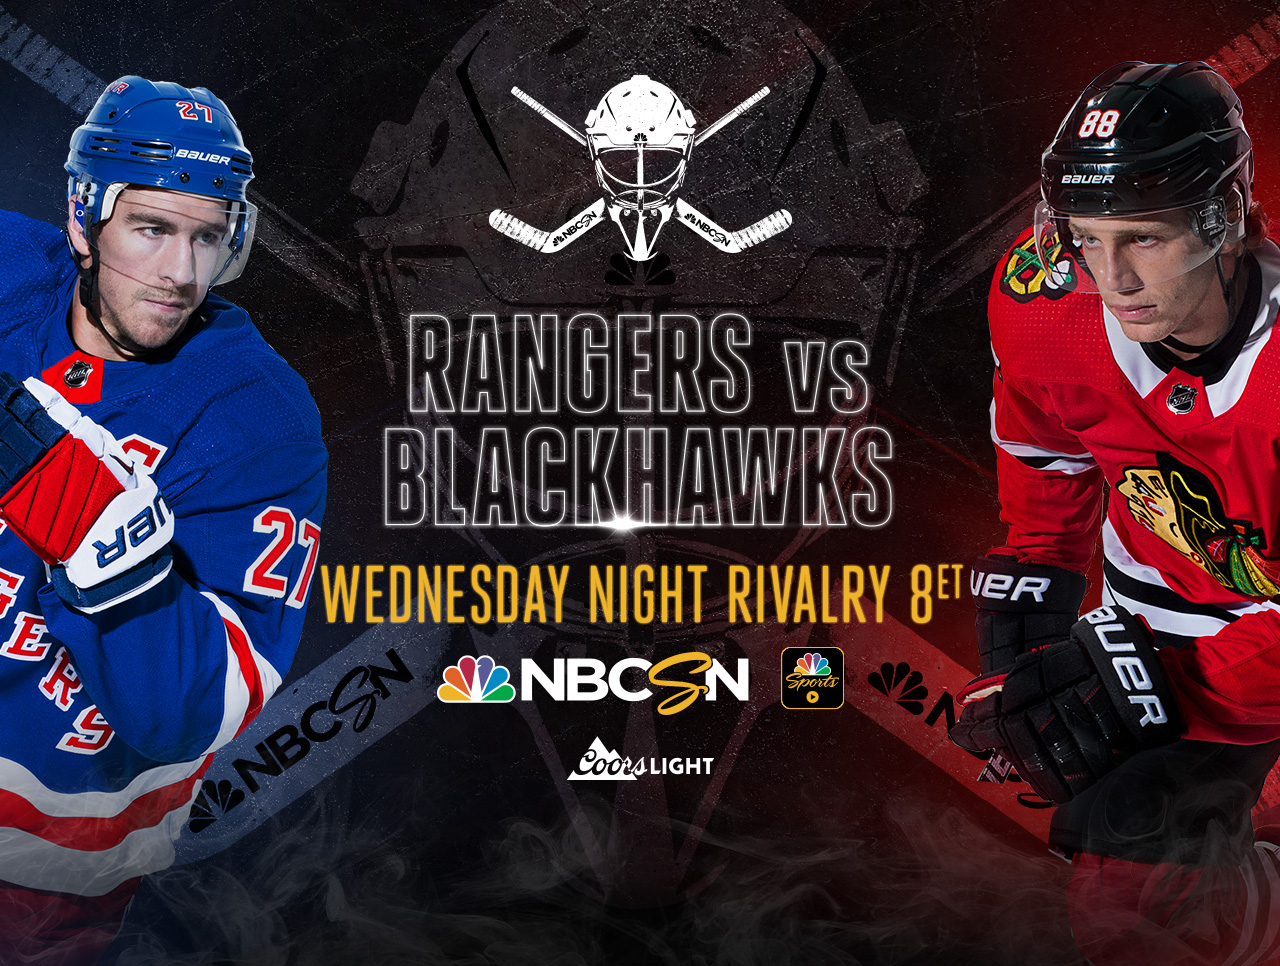
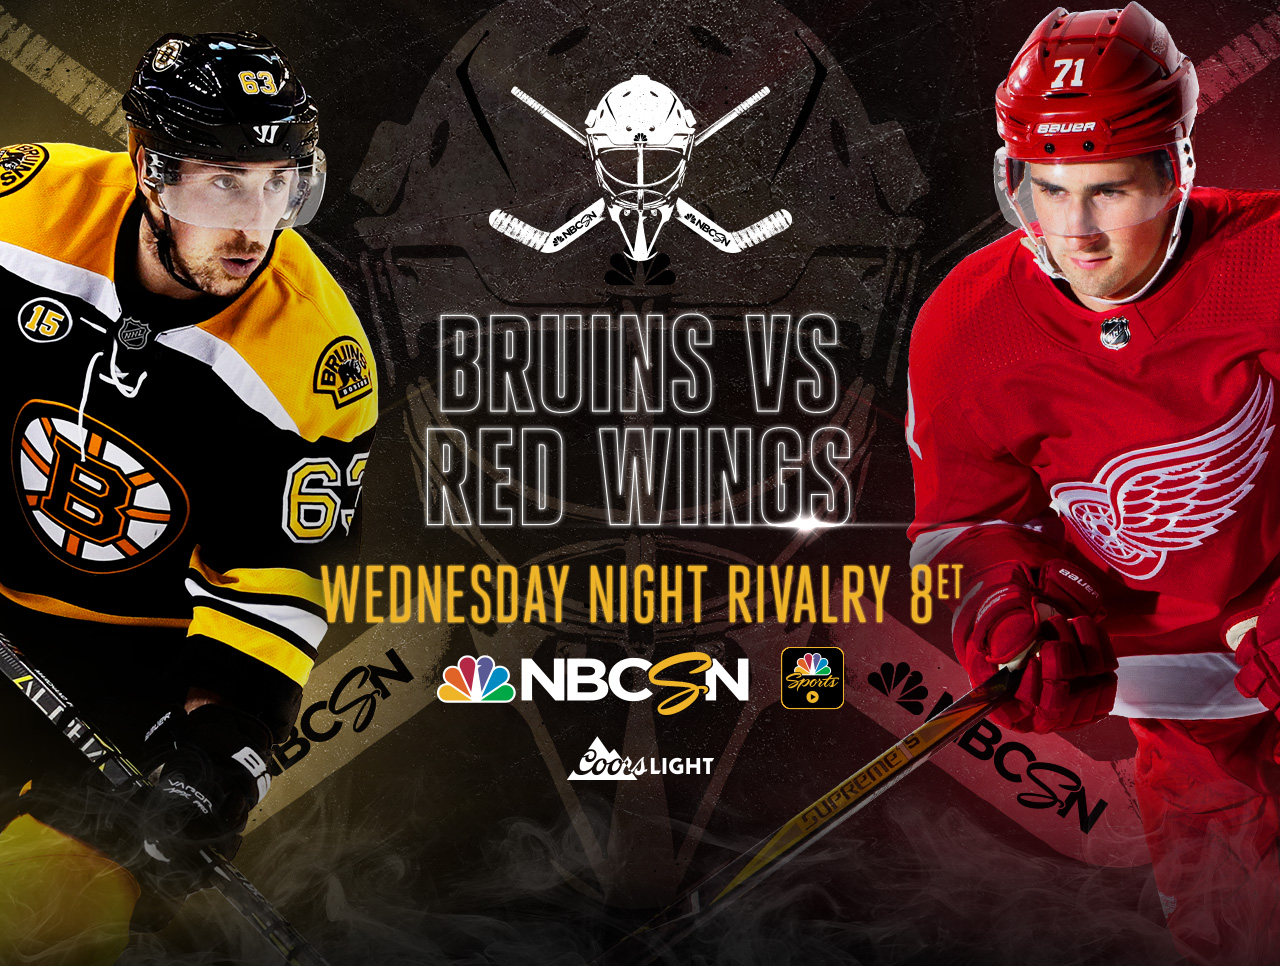
121317media buy

diff --git a/121317-MEDIA-BUY/index.html b/121317-MEDIA-BUY/index.html
@@ -15,10 +15,11 @@
 
 			<div id="contentright">
 
-				<h6>NHL Wednesday Night Rivalry | MEDIA BUY | Rangers vs. BlackHawks 11.15.17</h6> 
+				<h6>NHL Wednesday Night Rivalry | MEDIA BUY | BRUINS vs RED WINGS 12.13.17</h6> 
 
 				<!-- <h2><a href="html_css/download.zip">download files here</a></h2> -->
 
+<!--
 				 <h1>Animated Banners</h1>
 
 
@@ -50,14 +51,11 @@
 					<p><a href="html_css/300x600/300x600.html">CLICK HERE TO VIEW ANIMATION</a></p>
 					<p><object width="300" height="600" data="html_css/300x600.jpg"></object> <br /><br />
 					</p>
-
-<!--
-                    <h4>160x600</h4>
-					<p><a href="html_css/160x600/160x600.html">CLICK HERE TO VIEW ANIMATION</a></p>
-					<p><object width="160" height="600" data="html_css/160x600.jpg"></object> <br /><br />
-					</p>
 -->
 
+
+
+<!--
                     <h1>Video Banners</h1>
                     
                     <h4>970x250</h4>
@@ -96,9 +94,11 @@
                     <h4>1060x590 Athena</h4>
 					<p><object width="1060" height="590" data="html_css/athena_1060x590.jpg"></object> <br /> <br />
 					</p>
+-->
                     
                     <h3>theScore</h3>
                 
+<!--
                     <h4>1242x2208 Mobile Launch Page</h4>
 					<p><object width="1242" height="2208" data="html_css/mobile_launch_page_1242x2208.jpg"></object> <br /> <br />
 					</p>
@@ -106,6 +106,7 @@
                     <h4>760x264 Masthead Unit</h4>
 					<p><object width="760" height="264" data="html_css/masthead_760x264.jpg"></object> <br /> <br />
 					</p>
+-->
                 
                     <h4>1280x966 Discovery Unit</h4>
 					<p><object width="1280" height="966" data="html_css/discovery_1280x966.jpg"></object> <br /> <br />
@@ -115,146 +116,6 @@
 
     
 					
-
-
-
-
-<!--
-				<h1>Static Banners</h1>
-
-					<h4>970x66</h4>
-					<p><object width="970" height="66" data="html_css/970x66.jpg"></object> <br /> <br />
-					</p>
-                    
-                    <h4>728x90</h4>
-					<p><object width="728" height="90" data="html_css/728x90.jpg"></object> <br /> <br />
-					</p>
-
-					<h4>320x50</h4>
-					<p><object width="320" height="50" data="html_css/320x50.jpg"></object> <br /><br />
-					</p>
-
-					<h4>300x50</h4>
-					<p><object width="300" height="50" data="html_css/300x50.jpg"></object> <br /><br />
-					</p>
-
-					<h4>190x80</h4>
-					<p><object width="190" height="80" data="html_css/190x80.jpg"></object> <br /><br />
-					</p>
-
-				<h1>All Access Headers</h1>
-
-	                <h4>1260x150</h4>
-	                <p><object width="1260" height="150" data="html_css/allaccess_1260x150.jpg"></object> <br /><br />
-	                </p>
-
-	                <h4>768x150</h4>
-	                <p><object width="768" height="150" data="html_css/allaccess_768x150.jpg"></object> <br /><br />
-	                </p>
-
-
-
-	            <h1>Email Newsletters</h1>
-
-	                <h4>newsletter header image</h4>
-	                <p><object width="800" height="111" data="html_css/newsletter_1600x222-header.jpg"></object> <br /><br />
-	                </p>
-
-	                <h4>schedule email image</h4>
-	                <p><object width="600" height="362" data="html_css/newsletter_schedule_image.jpg"></object> <br /><br />
-	                </p>
-
-	                <h4>schedule email image background</h4>
-	                <p><object width="600" height="362" data="html_css/newsletter_schedule_image_bg.jpg"></object> <br /> <br />
-	                </p>
-
-	                <h4>Focus</h4>
-	                <p><object width="560" height="315" data="html_css/FOCUS_IMAGE.jpg"></object> <br /><br />
-	                </p>
-
-
-
-	            <h1>NHL Rightrail</h1>
-
-	                <h4>2568x1444</h4>
-	                <p>(shown at 369x207 - <a href="html_css/nhl_rightrail_2568x1444.jpg">click here</a> to view at full size)</p>
-	                <p><object width="369" height="207" data="html_css/nhl_rightrail_2568x1444.jpg"></object> <br /> <br />
-	                </p>
-
-
-	            <h1>Social Media</h1>
-
-	                <h4>social post</h4>
-	                <p><object width="800" height="800" data="html_css/1200x1200.jpg"></object> <br /><br />
-	                </p>
-
-	                <h4>social post tonight</h4>
-	                <p><object width="800" height="800" data="html_css/1200x1200_tonight.jpg"></object> <br /><br />
-	                </p>
-
-	                <h4>facebook cover photo</h4>
-	                <p><object width="851" height="315" data="html_css/fb.jpg"></object> <br /><br />
-	                </p>
-
-	                <h4>twitter header image</h4>
-	                <p><object width="1200" height="400" data="html_css/twitter.jpg"></object> <br /><br />
-	                </p> 
-
-
-				<h1>Content Distribution</h1>
-
-					<h4>fubo 1200x630</h4>
-					<p><object width="1200" height="630" data="html_css/content-distribution/fubo_1200x630.jpg"></object> <br /><br />
-					</p>
-
-					<h4>fubo 1080x1080</h4>
-					<p><object width="1080" height="1080" data="html_css/content-distribution/fubo_1080x1080.jpg"></object> <br /><br />
-					</p>
-
-					<h4>fubo 728x90</h4>
-					<p><object width="728" height="90" data="html_css/content-distribution/fubo_728x90.jpg"></object> <br /><br />
-					</p>
-
-					<h4>fubo 300x250</h4>
-					<p><object width="300" height="250" data="html_css/content-distribution/fubo_300x250.jpg"></object> <br /><br />
-					</p>
-
-					<h4>fubo 300x600</h4>
-					<p><object width="300" height="600" data="html_css/content-distribution/fubo_300x600.jpg"></object> <br /><br />
-					</p>
-
-					<h4>sling 1600x2400</h4>
-					<p>(shown at 50% - <a href="html_css/content-distribution/sling_1600x2400.jpg">click here</a> to view at full size)</p>
-					<p><object width="800" height="1200" data="html_css/content-distribution/sling_1600x2400.jpg"></object> <br /><br />
-					</p>
- 
-
-					<h4>sling 1024x512 option 1</h4>
-					<p><object width="1024" height="512" data="html_css/content-distribution/sling_1024x512.jpg"></object> <br /><br />
-					</p>
-
-					<h4>sling 1024x512 option 2</h4>
-					<p><object width="1024" height="512" data="html_css/content-distribution/sling_1024x512-2.jpg"></object> <br /><br />
-					</p>
-
-
-				<h4>sony 1280x720</h4>
-					<p><object width="1280" height="720" data="html_css/content-distribution/sony_1280x720.jpg"></object> <br /><br />
-					</p>
-
-					<h4>sony 1280x720 (updated safezone)</h4>
-					<p><object width="1280" height="720" data="html_css/content-distribution/sony_1280x720_updated_safezone.jpg"></object> <br /><br />
-					</p>
-
-					<h4>sony 520x260</h4>
-					<p><object width="520" height="260" data="html_css/content-distribution/sony_520x260.jpg"></object> <br /><br />
-					</p>
-
-					<h4>sony 260x260</h4>
-					<p><object width="260" height="260" data="html_css/content-distribution/sony_260x260.jpg"></object> <br /><br />
-					</p>
--->
-
 
 
 
